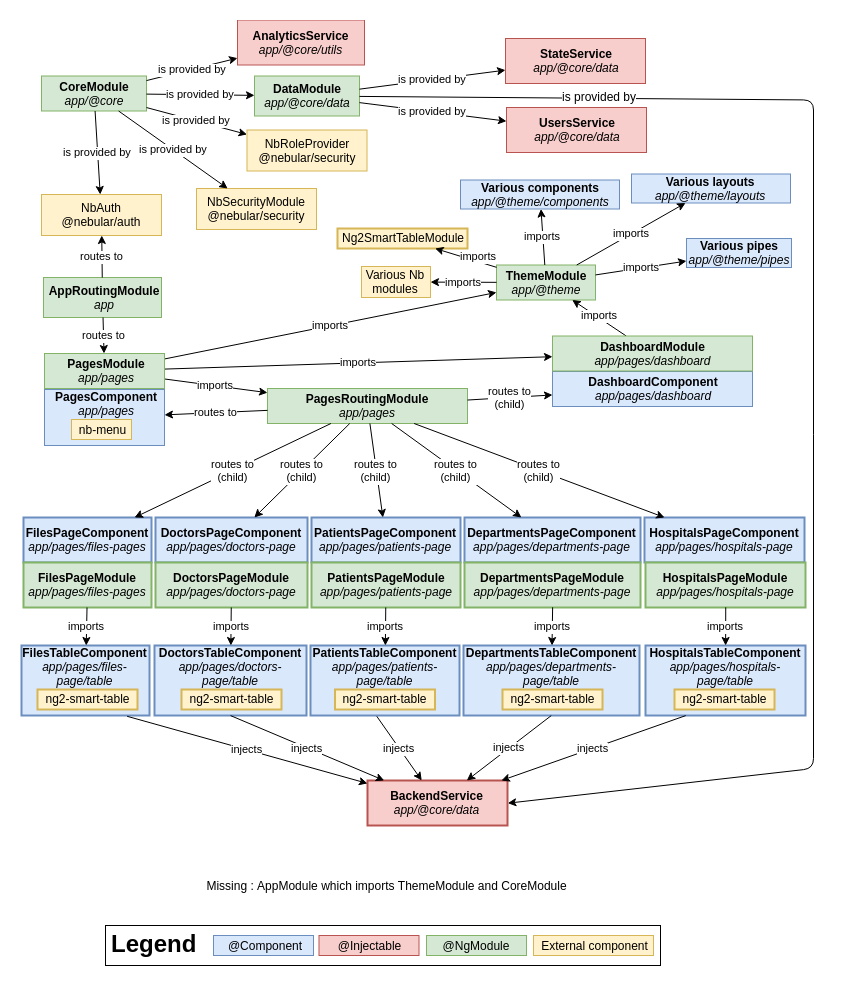
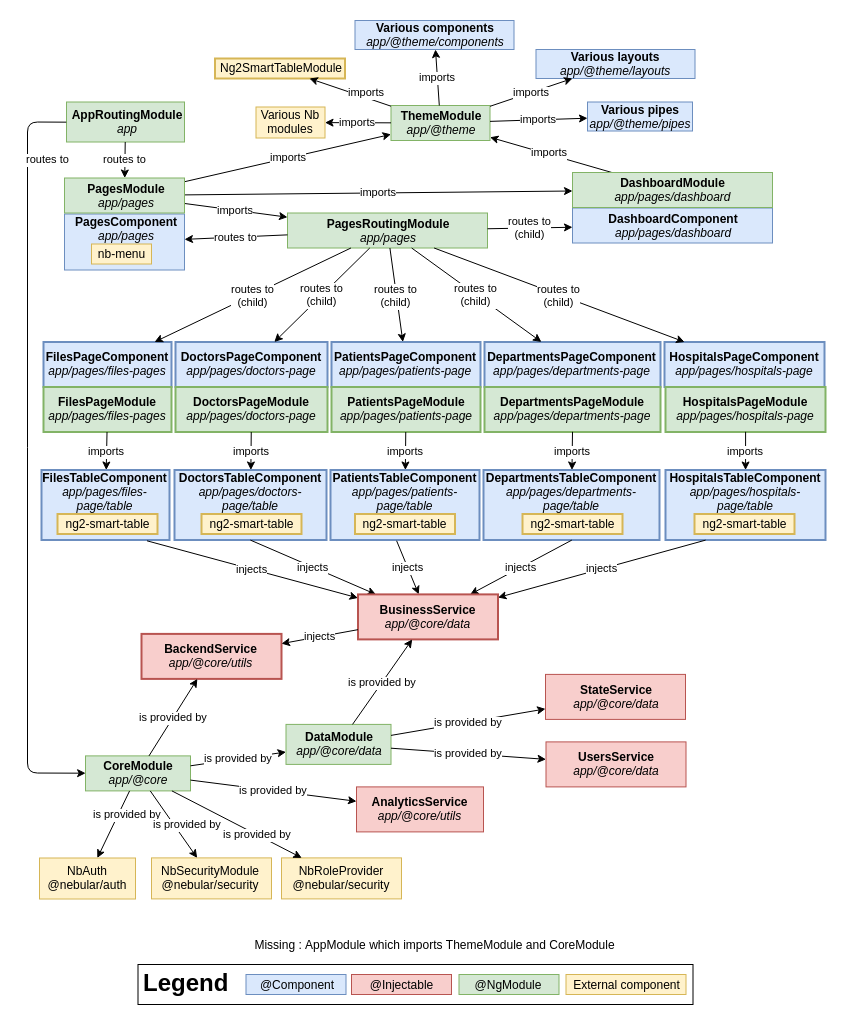
New BusinessService that is the middleman between the backend and the components

diff --git a/src/app/@core/data/business.service.ts b/src/app/@core/data/business.service.ts
@@ -1,0 +1,32 @@
+import { Injectable } from '@angular/core';
+import { BackendService } from '../utils/backend.service';
+import { Observable } from 'rxjs';
+
+@Injectable()
+export class BusinessService {
+
+  constructor(private backend: BackendService) {
+  }
+
+  // TODO : Cache!
+
+  getHospitals(): Observable<Object[]> {
+    return this.backend.getHospitals();
+  }
+
+  getDepartments(): Observable<Object[]> {
+    return this.backend.getDepartments();
+  }
+
+  getDoctors(): Observable<Object[]> {
+    return this.backend.getDoctors();
+  }
+
+  getPatients(): Observable<Object[]> {
+    return this.backend.getPatients();
+  }
+
+  getMedicalFiles(): Observable<Object[]> {
+    return this.backend.getMedicalFiles();
+  }
+}

diff --git a/src/app/pages/departments-page/table/table.component.ts b/src/app/pages/departments-page/table/table.component.ts
@@ -1,5 +1,5 @@
 import { Component, OnInit } from '@angular/core';
-import { BackendService } from '../../../@core/utils/backend.service';
+import { BusinessService } from '../../../@core/data/business.service';
 
 @Component({
   selector: 'ngx-departments-table',
@@ -31,11 +31,11 @@ export class DepartmentsTableComponent implements OnInit {
 
   data = [];
 
-  constructor(private dataService: BackendService) {
+  constructor(private business: BusinessService) {
   }
 
   ngOnInit() {
-    this.dataService.getDepartments().subscribe(d => this.data = d);
+    this.business.getDepartments().subscribe(d => this.data = d);
   }
 
 }

diff --git a/src/app/pages/hospitals-page/table/table.component.ts b/src/app/pages/hospitals-page/table/table.component.ts
@@ -1,5 +1,5 @@
 import { Component, OnInit } from '@angular/core';
-import { BackendService } from '../../../@core/utils/backend.service';
+import { BusinessService } from '../../../@core/data/business.service';
 
 @Component({
   selector: 'ngx-hospitals-table',
@@ -28,10 +28,10 @@ export class HospitalsTableComponent implements OnInit {
 
   data = [];
 
-  constructor(private dataService: BackendService) { }
+  constructor(private business: BusinessService) { }
 
   ngOnInit() {
-    this.dataService.getHospitals().subscribe(h => this.data = h);
+    this.business.getHospitals().subscribe(h => this.data = h);
   }
 
 }

diff --git a/src/app/pages/files-page/table/table.component.ts b/src/app/pages/files-page/table/table.component.ts
@@ -1,5 +1,5 @@
 import { Component, OnInit } from '@angular/core';
-import { BackendService } from '../../../@core/utils/backend.service';
+import { BusinessService } from '../../../@core/data/business.service';
 
 @Component({
   selector: 'ngx-files-table',
@@ -31,11 +31,11 @@ export class FilesTableComponent implements OnInit {
 
   data = [];
 
-  constructor(private dataService: BackendService) {
+  constructor(private business: BusinessService) {
   }
 
   ngOnInit() {
-    this.dataService.getMedicalFiles().subscribe(d => this.data = d);
+    this.business.getMedicalFiles().subscribe(d => this.data = d);
   }
 
 }

diff --git a/src/app/pages/patients-page/table/table.component.ts b/src/app/pages/patients-page/table/table.component.ts
@@ -1,5 +1,5 @@
 import { Component, OnInit } from '@angular/core';
-import { BackendService } from '../../../@core/utils/backend.service';
+import { BusinessService } from '../../../@core/data/business.service';
 
 @Component({
   selector: 'ngx-patients-table',
@@ -37,11 +37,11 @@ export class PatientsTableComponent implements OnInit {
 
   data = [];
 
-  constructor(private dataService: BackendService) {
+  constructor(private business: BusinessService) {
   }
 
   ngOnInit() {
-    this.dataService.getPatients().subscribe(p => this.data = p);
+    this.business.getPatients().subscribe(p => this.data = p);
   }
 
 }

diff --git a/src/app/pages/doctors-page/table/table.component.ts b/src/app/pages/doctors-page/table/table.component.ts
@@ -1,5 +1,5 @@
 import { Component, OnInit } from '@angular/core';
-import { BackendService } from '../../../@core/utils/backend.service';
+import { BusinessService } from '../../../@core/data/business.service';
 
 @Component({
   selector: 'ngx-doctors-table',
@@ -34,11 +34,11 @@ export class DoctorsTableComponent implements OnInit {
 
   data = [];
 
-  constructor(private dataService: BackendService) {
+  constructor(private business: BusinessService) {
   }
 
   ngOnInit() {
-    this.dataService.getDoctors().subscribe(d => this.data = d);
+    this.business.getDoctors().subscribe(d => this.data = d);
   }
 
 }

diff --git a/src/app/@core/core.module.ts b/src/app/@core/core.module.ts
@@ -7,6 +7,7 @@ import { of as observableOf } from 'rxjs';
 import { throwIfAlreadyLoaded } from './module-import-guard';
 import { DataModule } from './data/data.module';
 import { AnalyticsService } from './utils/analytics.service';
+import { BackendService } from './utils/backend.service';
 
 const socialLinks = [
   {
@@ -73,6 +74,7 @@ export const NB_CORE_PROVIDERS = [
     provide: NbRoleProvider, useClass: NbSimpleRoleProvider,
   },
   AnalyticsService,
+  BackendService,
 ];
 
 @NgModule({

diff --git a/src/app/@core/data/data.module.ts b/src/app/@core/data/data.module.ts
@@ -3,12 +3,12 @@ import { CommonModule } from '@angular/common';
 
 import { UserService } from './users.service';
 import { StateService } from './state.service';
-import { BackendService } from '../utils/backend.service';
+import { BusinessService } from './business.service';
 
 const SERVICES = [
   UserService,
   StateService,
-  BackendService,
+  BusinessService,
 ];
 
 @NgModule({
